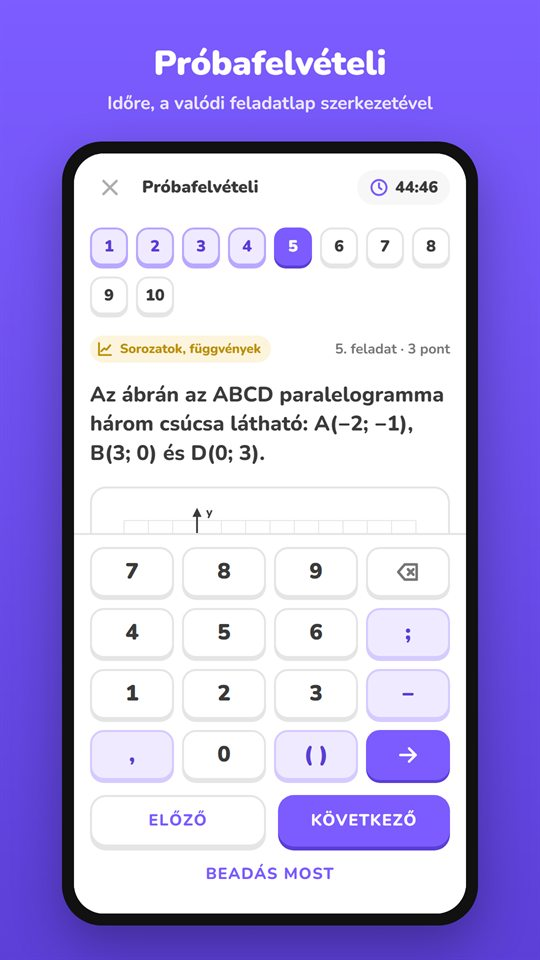
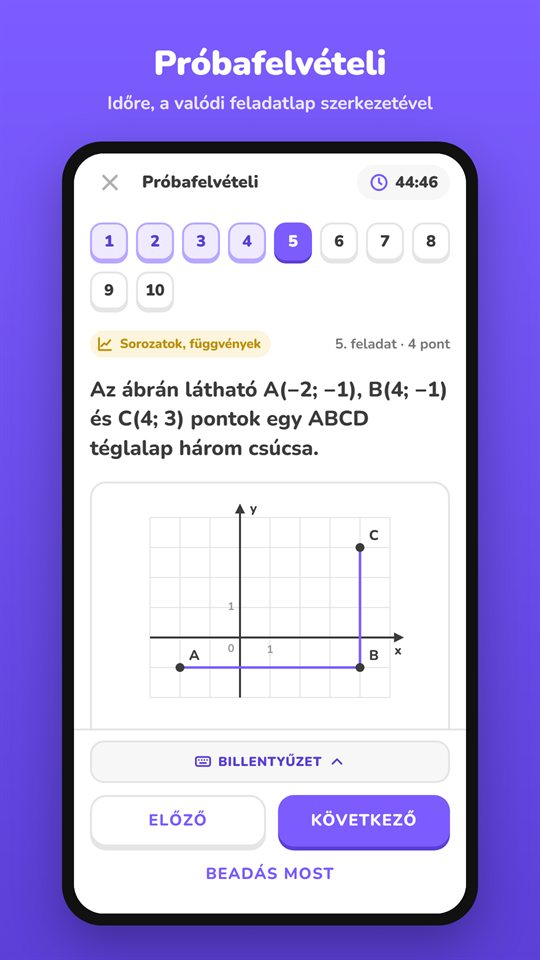
remove unneccessary text and updated images

diff --git a/en/index.html b/en/index.html
@@ -5,10 +5,10 @@
   <meta name="viewport" content="width=device-width, initial-scale=1">
   <title>Gestware — websites, web systems, Android apps</title>
   <meta name="description" content="Gestware builds websites, internal web systems and Android apps for small businesses and institutions, from design to maintenance.">
-  <link rel="canonical" href="https://gesztitamas14.github.io/en/">
-  <link rel="alternate" hreflang="hu" href="https://gesztitamas14.github.io/">
-  <link rel="alternate" hreflang="en" href="https://gesztitamas14.github.io/en/">
-  <link rel="alternate" hreflang="x-default" href="https://gesztitamas14.github.io/">
+  <link rel="canonical" href="https://gestware.web.app/en/">
+  <link rel="alternate" hreflang="hu" href="https://gestware.web.app/">
+  <link rel="alternate" hreflang="en" href="https://gestware.web.app/en/">
+  <link rel="alternate" hreflang="x-default" href="https://gestware.web.app/">
   <link rel="icon" href="/favicon.svg" type="image/svg+xml">
   <link rel="preload" href="/assets/fonts/ibm-plex-sans-500-latin.woff2" as="font" type="font/woff2" crossorigin>
   <link rel="stylesheet" href="/assets/css/style.css">
@@ -16,7 +16,7 @@
   <meta property="og:locale" content="en_GB">
   <meta property="og:title" content="Gestware — websites, web systems, Android apps">
   <meta property="og:description" content="Software development for small businesses and institutions, from design to maintenance.">
-  <meta property="og:url" content="https://gesztitamas14.github.io/en/">
+  <meta property="og:url" content="https://gestware.web.app/en/">
   <meta name="theme-color" content="#f4f3ef">
 </head>
 <body>
@@ -43,7 +43,6 @@
         <h1>Software development for web and Android. <em>From design to maintenance.</em></h1>
 
         <dl class="hero-meta">
-          <div><dt>Based in</dt><dd>Mezőtúr, Hungary</dd></div>
           <div><dt>Works</dt><dd>remotely</dd></div>
           <div><dt>Languages</dt><dd>Hungarian, English</dd></div>
         </dl>
@@ -131,7 +130,7 @@
         </div>
         <div class="section-body">
           <article class="project">
-            <div>
+            <div class="project-text">
               <div class="project-title">
                 <img src="/assets/img/pontjo-icon.png" width="56" height="56" alt="">
                 <h3>Pont jó — exam practice</h3>
@@ -145,14 +144,14 @@
               </dl>
               <div class="project-links">
                 <span class="soon">Google Play — coming soon</span>
-                <a href="/felveteli-gyakorlo/aszf.html" hreflang="hu">Terms (HU) ↗</a>
-                <a href="/felveteli-gyakorlo/adatvedelem.html" hreflang="hu">Privacy (HU) ↗</a>
+                <a href="https://gesztitamas14.github.io/felveteli-gyakorlo/aszf.html" hreflang="hu">Terms (HU) ↗</a>
+                <a href="https://gesztitamas14.github.io/felveteli-gyakorlo/adatvedelem.html" hreflang="hu">Privacy (HU) ↗</a>
               </div>
             </div>
             <div class="shots">
-              <figure><img src="/assets/img/pontjo-home.jpg" width="540" height="960" loading="lazy" alt="Pont jó: home screen with the topic path"></figure>
-              <figure><img src="/assets/img/pontjo-task.jpg" width="540" height="960" loading="lazy" alt="Pont jó: geometry exercise with a figure"></figure>
-              <figure><img src="/assets/img/pontjo-exam.jpg" width="540" height="960" loading="lazy" alt="Pont jó: mock exam with a countdown"></figure>
+              <figure><img src="/assets/img/pontjo-home.jpg?v=2" width="540" height="960" loading="lazy" alt="Pont jó: home screen with the topic path"></figure>
+              <figure><img src="/assets/img/pontjo-task.jpg?v=2" width="540" height="960" loading="lazy" alt="Pont jó: geometry exercise with a figure"></figure>
+              <figure><img src="/assets/img/pontjo-exam.jpg?v=2" width="540" height="960" loading="lazy" alt="Pont jó: mock exam with a countdown"></figure>
             </div>
           </article>
         </div>
@@ -256,7 +255,7 @@
         <div><dt>Registration no.</dt><dd>62993779</dd></div>
         <div><dt>Tax no.</dt><dd>92499144-1-36</dd></div>
         <div><dt>Email</dt><dd><a href="mailto:gesztitamas15@gmail.com">gesztitamas15@gmail.com</a></dd></div>
-        <div><dt>Hosting</dt><dd>GitHub, Inc., 88 Colin P. Kelly Jr. St., San Francisco, CA 94107, USA</dd></div>
+        <div><dt>Hosting</dt><dd>Google LLC (Firebase Hosting), 1600 Amphitheatre Parkway, Mountain View, CA 94043, USA</dd></div>
       </dl>
       <div class="footer-links">
         <a href="/en/privacy.html">Privacy notice</a>

diff --git a/index.html b/index.html
@@ -5,10 +5,10 @@
   <meta name="viewport" content="width=device-width, initial-scale=1">
   <title>Gestware — weboldalak, webes rendszerek, Android-alkalmazások</title>
   <meta name="description" content="A Gestware weboldalakat, webes ügyviteli rendszereket és Android-alkalmazásokat fejleszt kisvállalkozásoknak és intézményeknek, a tervezéstől a karbantartásig.">
-  <link rel="canonical" href="https://gesztitamas14.github.io/">
-  <link rel="alternate" hreflang="hu" href="https://gesztitamas14.github.io/">
-  <link rel="alternate" hreflang="en" href="https://gesztitamas14.github.io/en/">
-  <link rel="alternate" hreflang="x-default" href="https://gesztitamas14.github.io/">
+  <link rel="canonical" href="https://gestware.web.app/">
+  <link rel="alternate" hreflang="hu" href="https://gestware.web.app/">
+  <link rel="alternate" hreflang="en" href="https://gestware.web.app/en/">
+  <link rel="alternate" hreflang="x-default" href="https://gestware.web.app/">
   <link rel="icon" href="/favicon.svg" type="image/svg+xml">
   <link rel="preload" href="/assets/fonts/ibm-plex-sans-500-latin.woff2" as="font" type="font/woff2" crossorigin>
   <link rel="stylesheet" href="/assets/css/style.css">
@@ -16,7 +16,7 @@
   <meta property="og:locale" content="hu_HU">
   <meta property="og:title" content="Gestware — weboldalak, webes rendszerek, Android-alkalmazások">
   <meta property="og:description" content="Szoftverfejlesztés kisvállalkozásoknak és intézményeknek, a tervezéstől a karbantartásig.">
-  <meta property="og:url" content="https://gesztitamas14.github.io/">
+  <meta property="og:url" content="https://gestware.web.app/">
   <meta name="theme-color" content="#f4f3ef">
 </head>
 <body>
@@ -130,7 +130,7 @@
         </div>
         <div class="section-body">
           <article class="project">
-            <div>
+            <div class="project-text">
               <div class="project-title">
                 <img src="/assets/img/pontjo-icon.png" width="56" height="56" alt="">
                 <h3>Pont jó — Központi felvételi</h3>
@@ -144,14 +144,12 @@
               </dl>
               <div class="project-links">
                 <span class="soon">Google Play — hamarosan</span>
-                <a href="/felveteli-gyakorlo/aszf.html">ÁSZF ↗</a>
-                <a href="/felveteli-gyakorlo/adatvedelem.html">Adatvédelem ↗</a>
               </div>
             </div>
             <div class="shots">
-              <figure><img src="/assets/img/pontjo-home.jpg" width="540" height="960" loading="lazy" alt="Pont jó: a kezdőképernyő a témakörök útvonalával"></figure>
-              <figure><img src="/assets/img/pontjo-task.jpg" width="540" height="960" loading="lazy" alt="Pont jó: geometriai feladat ábrával"></figure>
-              <figure><img src="/assets/img/pontjo-exam.jpg" width="540" height="960" loading="lazy" alt="Pont jó: próbafelvételi visszaszámlálóval"></figure>
+              <figure><img src="/assets/img/pontjo-home.jpg?v=2" width="540" height="960" loading="lazy" alt="Pont jó: a kezdőképernyő a témakörök útvonalával"></figure>
+              <figure><img src="/assets/img/pontjo-task.jpg?v=2" width="540" height="960" loading="lazy" alt="Pont jó: geometriai feladat ábrával"></figure>
+              <figure><img src="/assets/img/pontjo-exam.jpg?v=2" width="540" height="960" loading="lazy" alt="Pont jó: próbafelvételi visszaszámlálóval"></figure>
             </div>
           </article>
         </div>
@@ -255,7 +253,7 @@
         <div><dt>Nyilvántartási szám</dt><dd>62993779</dd></div>
         <div><dt>Adószám</dt><dd>92499144-1-36</dd></div>
         <div><dt>E-mail</dt><dd><a href="mailto:gesztitamas15@gmail.com">gesztitamas15@gmail.com</a></dd></div>
-        <div><dt>Tárhely</dt><dd>GitHub, Inc., 88 Colin P. Kelly Jr. St., San Francisco, CA 94107, USA</dd></div>
+        <div><dt>Tárhely</dt><dd>Google LLC (Firebase Hosting), 1600 Amphitheatre Parkway, Mountain View, CA 94043, USA</dd></div>
       </dl>
       <div class="footer-links">
         <a href="/adatkezeles.html">Adatkezelési tájékoztató</a>

diff --git a/adatkezeles.html b/adatkezeles.html
@@ -4,10 +4,10 @@
   <meta charset="utf-8">
   <meta name="viewport" content="width=device-width, initial-scale=1">
   <title>Adatkezelési tájékoztató — Gestware</title>
-  <meta name="description" content="A gesztitamas14.github.io weboldal és a kapcsolatfelvételi űrlap adatkezelési tájékoztatója.">
-  <link rel="canonical" href="https://gesztitamas14.github.io/adatkezeles.html">
-  <link rel="alternate" hreflang="hu" href="https://gesztitamas14.github.io/adatkezeles.html">
-  <link rel="alternate" hreflang="en" href="https://gesztitamas14.github.io/en/privacy.html">
+  <meta name="description" content="A gestware.web.app weboldal és a kapcsolatfelvételi űrlap adatkezelési tájékoztatója.">
+  <link rel="canonical" href="https://gestware.web.app/adatkezeles.html">
+  <link rel="alternate" hreflang="hu" href="https://gestware.web.app/adatkezeles.html">
+  <link rel="alternate" hreflang="en" href="https://gestware.web.app/en/privacy.html">
   <link rel="icon" href="/favicon.svg" type="image/svg+xml">
   <link rel="stylesheet" href="/assets/css/style.css">
   <meta name="theme-color" content="#f4f3ef">
@@ -34,7 +34,7 @@
       <h1>Adatkezelési tájékoztató</h1>
 
       <div class="prose">
-        <p>Ez a tájékoztató a <strong>gesztitamas14.github.io</strong> weboldalra és a rajta lévő kapcsolatfelvételi űrlapra vonatkozik. A Pont jó alkalmazásnak <a href="/felveteli-gyakorlo/adatvedelem.html">külön adatvédelmi tájékoztatója</a> van.</p>
+        <p>Ez a tájékoztató a <strong>gestware.web.app</strong> weboldalra és a rajta lévő kapcsolatfelvételi űrlapra vonatkozik. A Pont jó alkalmazásnak <a href="https://gesztitamas14.github.io/felveteli-gyakorlo/adatvedelem.html">külön adatvédelmi tájékoztatója</a> van.</p>
 
         <h2>Az adatkezelő</h2>
         <p>Geszti Tamás e.v.<br>
@@ -63,7 +63,7 @@
         <p>Az adatokat nem adjuk tovább, nem használjuk hírlevélre vagy reklámra, és nem hozunk velük automatizált döntést.</p>
 
         <h2>A weboldal tárhelye</h2>
-        <p>Az oldalt a GitHub Pages szolgálja ki (GitHub, Inc., 88 Colin P. Kelly Jr. St., San Francisco, CA 94107, USA). A GitHub az oldal megnyitásakor a biztonságos működéshez technikai adatokat naplózhat, például az IP-címet és a böngésző típusát. Ezekhez mi nem férünk hozzá. Az adattovábbítás az Egyesült Államokba az EU–USA adatvédelmi keretrendszer, illetve az általános szerződési feltételek alapján történik. Részletek: <a href="https://docs.github.com/en/site-policy/privacy-policies/github-general-privacy-statement">GitHub Privacy Statement</a>.</p>
+        <p>Az oldalt a Firebase Hosting szolgálja ki (Google LLC, 1600 Amphitheatre Parkway, Mountain View, CA 94043, USA). A Google az oldal megnyitásakor a kiszolgáláshoz és a biztonságos működéshez technikai adatokat naplózhat, például az IP-címet és a böngésző típusát. Ezekhez mi nem férünk hozzá. Az adattovábbítás az Egyesült Államokba az EU–USA adatvédelmi keretrendszer, illetve az általános szerződési feltételek alapján történik. Részletek: <a href="https://firebase.google.com/support/privacy">Firebase – adatvédelem és biztonság</a>.</p>
 
         <h2>Az Ön jogai</h2>
         <p>Kérheti, hogy:</p>

diff --git a/en/privacy.html b/en/privacy.html
@@ -4,10 +4,10 @@
   <meta charset="utf-8">
   <meta name="viewport" content="width=device-width, initial-scale=1">
   <title>Privacy notice — Gestware</title>
-  <meta name="description" content="Privacy notice for gesztitamas14.github.io and its contact form.">
-  <link rel="canonical" href="https://gesztitamas14.github.io/en/privacy.html">
-  <link rel="alternate" hreflang="hu" href="https://gesztitamas14.github.io/adatkezeles.html">
-  <link rel="alternate" hreflang="en" href="https://gesztitamas14.github.io/en/privacy.html">
+  <meta name="description" content="Privacy notice for gestware.web.app and its contact form.">
+  <link rel="canonical" href="https://gestware.web.app/en/privacy.html">
+  <link rel="alternate" hreflang="hu" href="https://gestware.web.app/adatkezeles.html">
+  <link rel="alternate" hreflang="en" href="https://gestware.web.app/en/privacy.html">
   <link rel="icon" href="/favicon.svg" type="image/svg+xml">
   <link rel="stylesheet" href="/assets/css/style.css">
   <meta name="theme-color" content="#f4f3ef">
@@ -34,7 +34,7 @@
       <h1>Privacy notice</h1>
 
       <div class="prose">
-        <p>This notice covers the <strong>gesztitamas14.github.io</strong> website and its contact form. The Pont jó app has <a href="/felveteli-gyakorlo/adatvedelem.html" hreflang="hu">its own privacy notice</a> (in Hungarian). If the two language versions differ, the Hungarian one prevails.</p>
+        <p>This notice covers the <strong>gestware.web.app</strong> website and its contact form. The Pont jó app has <a href="https://gesztitamas14.github.io/felveteli-gyakorlo/adatvedelem.html" hreflang="hu">its own privacy notice</a> (in Hungarian). If the two language versions differ, the Hungarian one prevails.</p>
 
         <h2>Controller</h2>
         <p>Geszti Tamás e.v. (sole trader)<br>
@@ -63,7 +63,7 @@
         <p>We don't share your data, use it for newsletters or marketing, or make automated decisions with it.</p>
 
         <h2>Hosting</h2>
-        <p>The site is served by GitHub Pages (GitHub, Inc., 88 Colin P. Kelly Jr. St., San Francisco, CA 94107, USA). When you open a page, GitHub may log technical data such as your IP address and browser type to keep the service secure. We have no access to these logs. Transfers to the US rely on the EU–US Data Privacy Framework and standard contractual clauses. See the <a href="https://docs.github.com/en/site-policy/privacy-policies/github-general-privacy-statement">GitHub Privacy Statement</a>.</p>
+        <p>The site is served by Firebase Hosting (Google LLC, 1600 Amphitheatre Parkway, Mountain View, CA 94043, USA). When you open a page, Google may log technical data such as your IP address and browser type to serve the site and keep it secure. We have no access to these logs. Transfers to the US rely on the EU–US Data Privacy Framework and standard contractual clauses. See <a href="https://firebase.google.com/support/privacy">Privacy and Security in Firebase</a>.</p>
 
         <h2>Your rights</h2>
         <p>You can ask us to:</p>

diff --git a/assets/css/style.css b/assets/css/style.css
@@ -445,9 +445,36 @@ a:hover {
 
 .project {
   display: grid;
-  grid-template-columns: minmax(0, 5fr) minmax(0, 6fr);
-  gap: 40px;
+  gap: 48px;
+}
+
+.project-text {
+  display: grid;
+  grid-template-columns: minmax(0, 1fr) minmax(0, 1fr);
+  grid-template-areas:
+    "title facts"
+    "desc  facts"
+    "desc  links";
+  grid-template-rows: auto auto 1fr;
+  column-gap: 48px;
   align-items: start;
+}
+
+.project-text .project-title {
+  grid-area: title;
+}
+
+.project-text > p {
+  grid-area: desc;
+}
+
+.project-text .project-facts {
+  grid-area: facts;
+  margin-top: 0;
+}
+
+.project-text .project-links {
+  grid-area: links;
 }
 
 .project-title {
@@ -506,7 +533,8 @@ a:hover {
 .shots {
   display: grid;
   grid-template-columns: repeat(3, minmax(0, 1fr));
-  gap: 14px;
+  gap: 24px;
+  max-width: 880px;
 }
 
 .shots img {
@@ -516,11 +544,11 @@ a:hover {
 }
 
 .shots figure:nth-child(2) {
-  margin-top: 40px;
+  margin-top: 56px;
 }
 
 .shots figure:nth-child(3) {
-  margin-top: 80px;
+  margin-top: 112px;
 }
 
 /* terms */
@@ -792,8 +820,31 @@ a:hover {
     grid-template-columns: 1fr;
   }
 
+  .project-text {
+    grid-template-columns: 1fr;
+    grid-template-areas:
+      "title"
+      "desc"
+      "facts"
+      "links";
+    grid-template-rows: none;
+  }
+
+  .project-text .project-facts {
+    margin-top: 24px;
+  }
+
   .shots {
+    gap: 14px;
     max-width: 560px;
+  }
+
+  .shots figure:nth-child(2) {
+    margin-top: 40px;
+  }
+
+  .shots figure:nth-child(3) {
+    margin-top: 80px;
   }
 
   .imprint {

diff --git a/README.md b/README.md
@@ -1,6 +1,8 @@
-# gesztitamas14.github.io
+# Gestware weboldal
 
-A Gestware (Geszti Tamás e.v.) weboldala. Statikus HTML és CSS, build nélkül, GitHub Pages-en.
+A Gestware (Geszti Tamás e.v.) weboldala: https://gestware.web.app. Statikus HTML és CSS, build nélkül, Firebase Hostingon.
+
+A Pont jó jogi oldalai nem itt vannak, hanem a `felveteli-gyakorlo` tároló GitHub Pages oldalán (`https://gesztitamas14.github.io/felveteli-gyakorlo/...`); az oldal teljes címmel linkel rájuk.
 
 ```
 index.html            magyar főoldal
@@ -12,6 +14,8 @@ assets/css/style.css
 assets/js/main.js     kapcsolati űrlap
 assets/fonts/         IBM Plex Sans / Mono (helyben, nem a Google Fonts-ról)
 assets/img/
+firebase.json         Firebase Hosting beállítás (gyorsítótár, fejlécek)
+.firebaserc           a Firebase-projekt azonosítója
 ```
 
 ## Helyi futtatás
@@ -19,18 +23,20 @@ assets/img/
 Az útvonalak gyökér-relatívak (`/assets/...`), ezért fájlként megnyitva nem működnek, kell egy szerver:
 
 ```
-npx serve .
+python -m http.server 8000
 ```
 
-vagy `python -m http.server 8000`, utána http://localhost:8000.
+vagy `npx serve .`, utána http://localhost:8000.
 
-## Közzététel
+## Közzététel (Firebase Hosting)
 
-1. GitHubon új, nyilvános tároló pontosan ezzel a névvel: `gesztitamas14.github.io`.
-2. Feltöltés a `main` ágra.
-3. *Settings → Pages → Build and deployment*: Deploy from a branch, `main`, `/ (root)`.
+Feltöltés (minden módosítás után):
 
-A `felveteli-gyakorlo` tároló jogi oldalai ugyanezen a domainen maradnak: `/felveteli-gyakorlo/...`.
+```
+npx firebase-tools deploy --only hosting
+```
+
+Utána az oldal a https://gestware.web.app (és a https://gestware.firebaseapp.com) címen él.
 
 ## Teendők élesítés előtt
 
